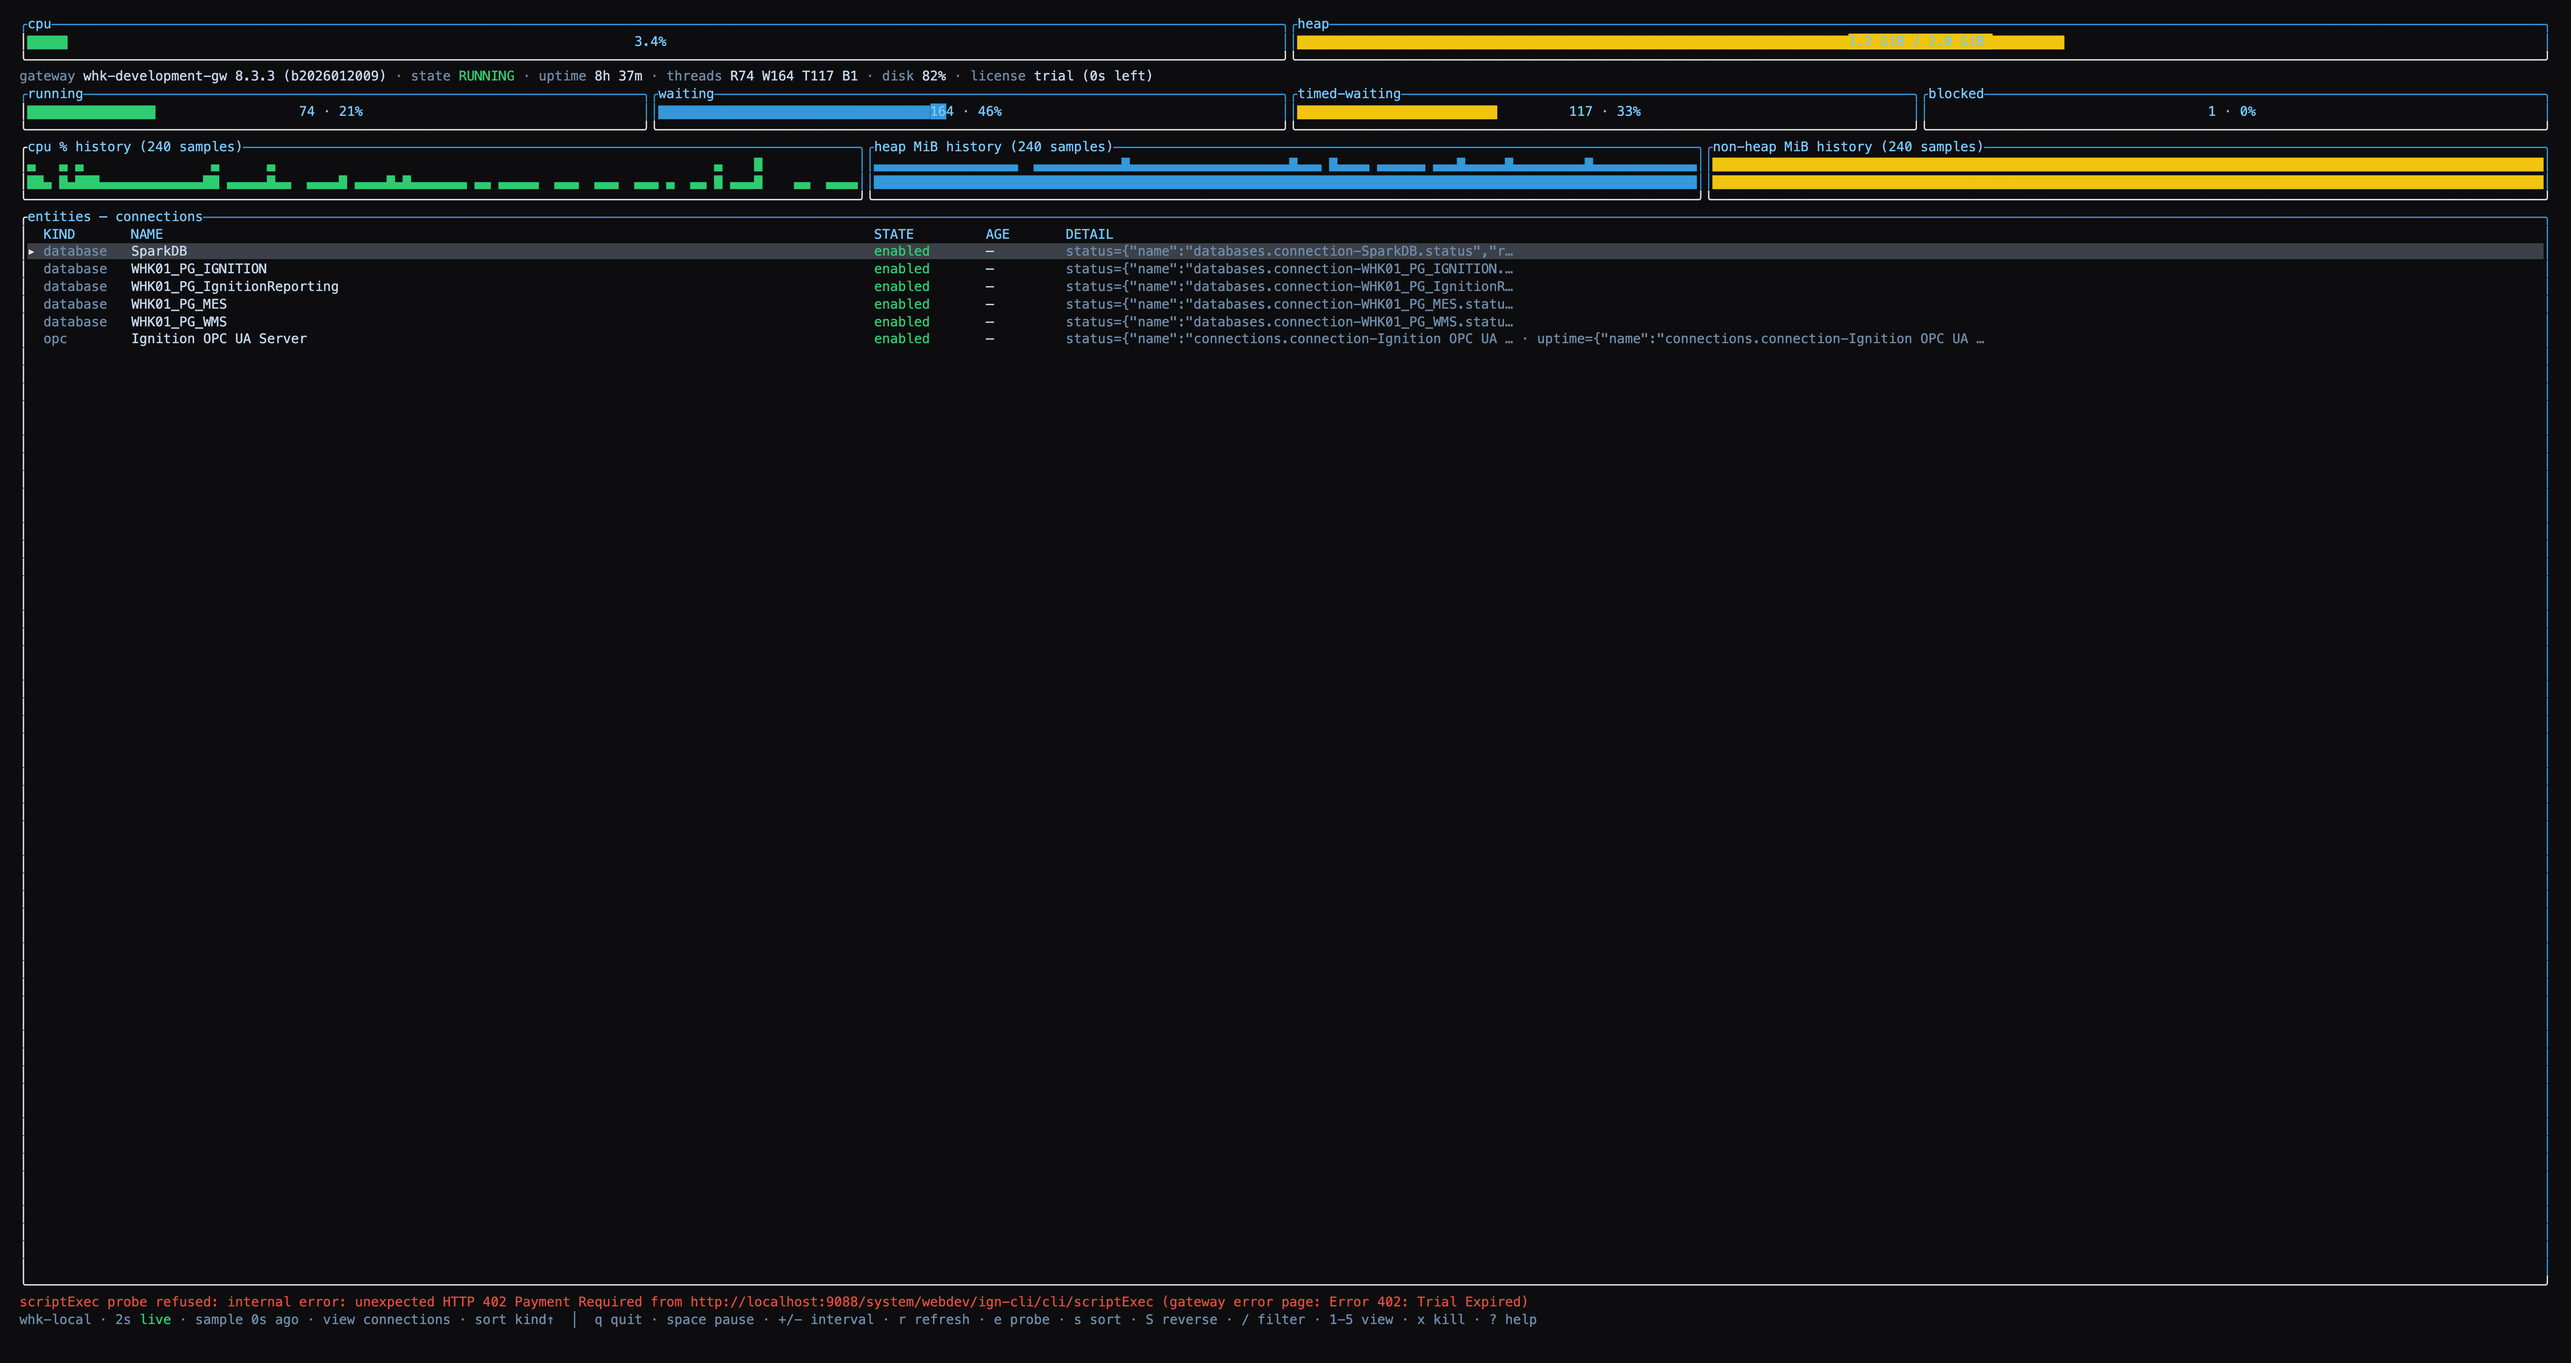
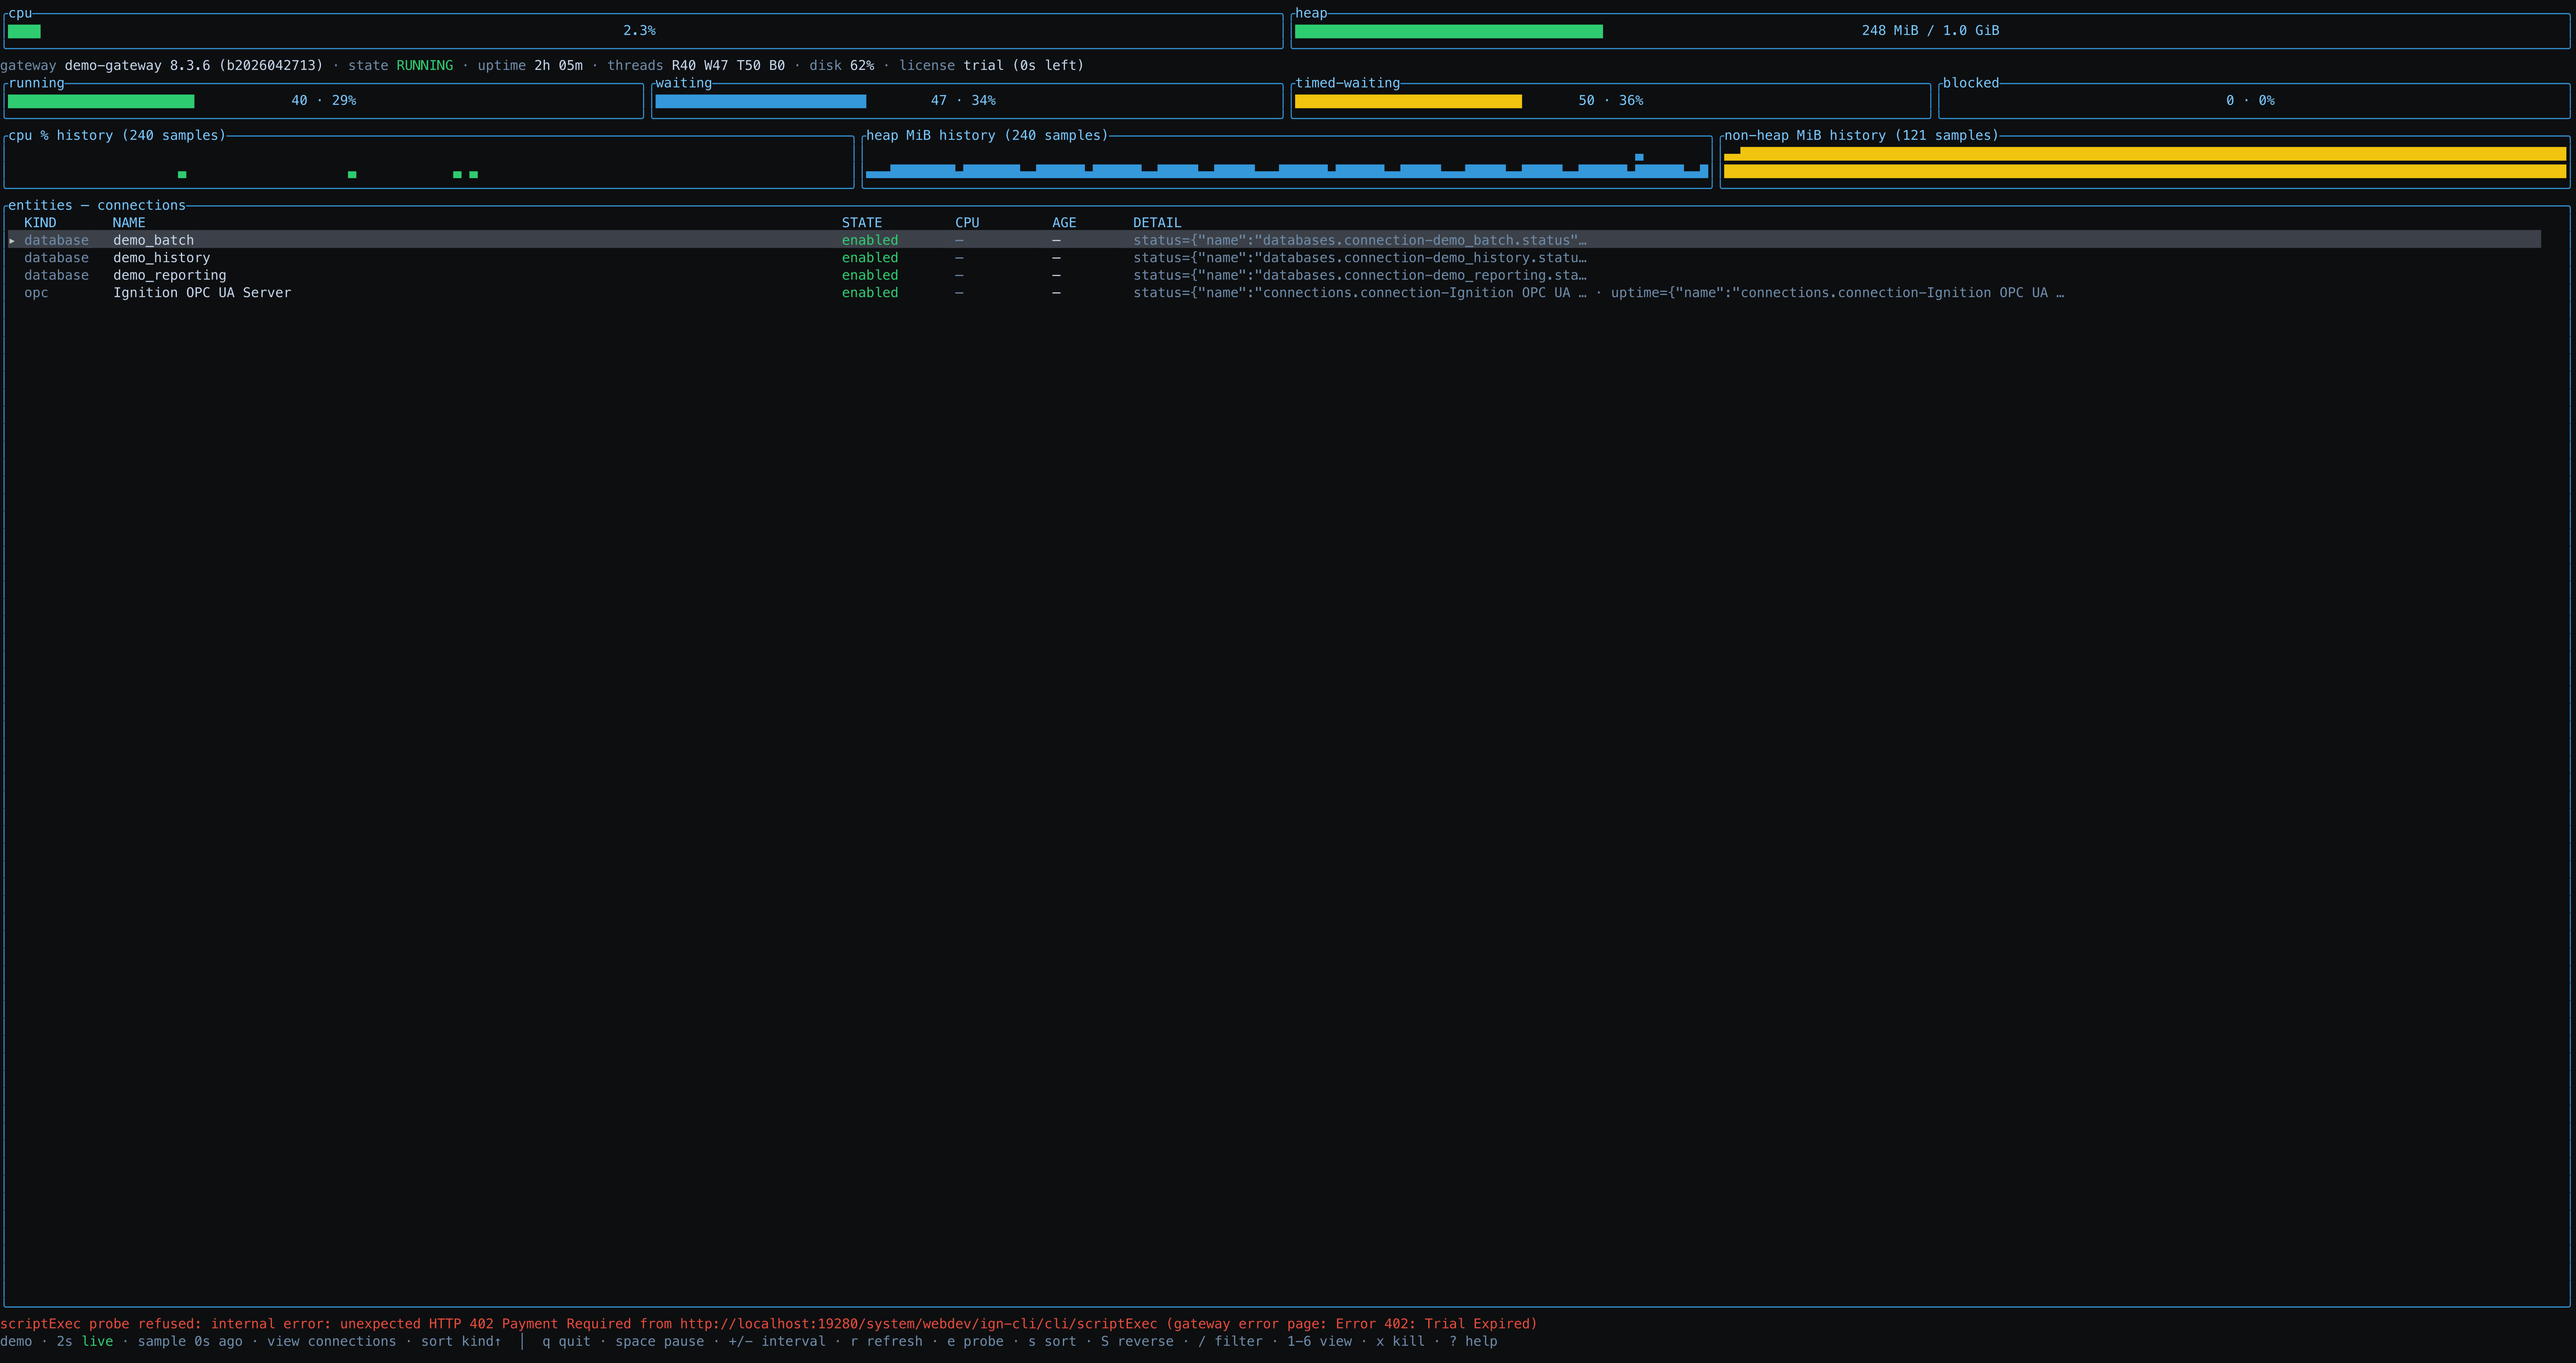
docs(quick-261106-is1): re-capture the itop screenshots on a neutral local rig

Changed region(s): [[0.0, 0.0, 1.0, 0.9656], [0.0, 0.9345, 0.5915, 0.9968], [0.9962, 0.0, 1.0, 0.0311]]

diff --git a/README.md b/README.md
@@ -781,7 +781,7 @@ watching, not operating.
 
 ![itop running live against a gateway — gauges, thread-state mix, three 240-sample history sparklines, and the entity process list](website/static/demos/itop-live.png)
 
-*(captured live against a dev gateway: 8.3.3, 35 modules, seeded
+*(captured live against a disposable local rig: 8.3.6, 32 modules, seeded
 240-sample history, the honest `Trial Expired` scriptExec refusal in
 the footer)*
 
@@ -819,13 +819,13 @@ markers, what the thread is waiting on, and what it holds. Threads the
 JVM's own deadlock detection names carry the `⚠` in the STATE cell and
 the banner in the table title.
 
-![the threads view live — 355 JVM threads sorted cpu-desc, tid folded into the CPU column, monitor evidence in DETAIL, no deadlocks](website/static/demos/itop-threads.png)
+![the threads view live — 137 JVM threads sorted cpu-desc, tid folded into the CPU column, monitor evidence in DETAIL, no deadlocks](website/static/demos/itop-threads.png)
 
 `Enter` on a row opens the stack viewer: header facts, the holds/
 waiting annotations, then the stack frames verbatim — scrollable
 (`j`/`k`, pgup/pgdn), with the line position in the title.
 
-![the stack viewer over the hottest thread — a Milo OPC filterRead stack, frames verbatim, scroll label](website/static/demos/itop-thread-stack.png)
+![the stack viewer over the hottest thread — a parked platform-scheduled-executor stack, frames verbatim, scroll label](website/static/demos/itop-thread-stack.png)
 
 The dump is ON-DEMAND, never on the sample cadence (a hundreds-of-
 threads snapshot every 2 s would hammer the gateway; the web UI
